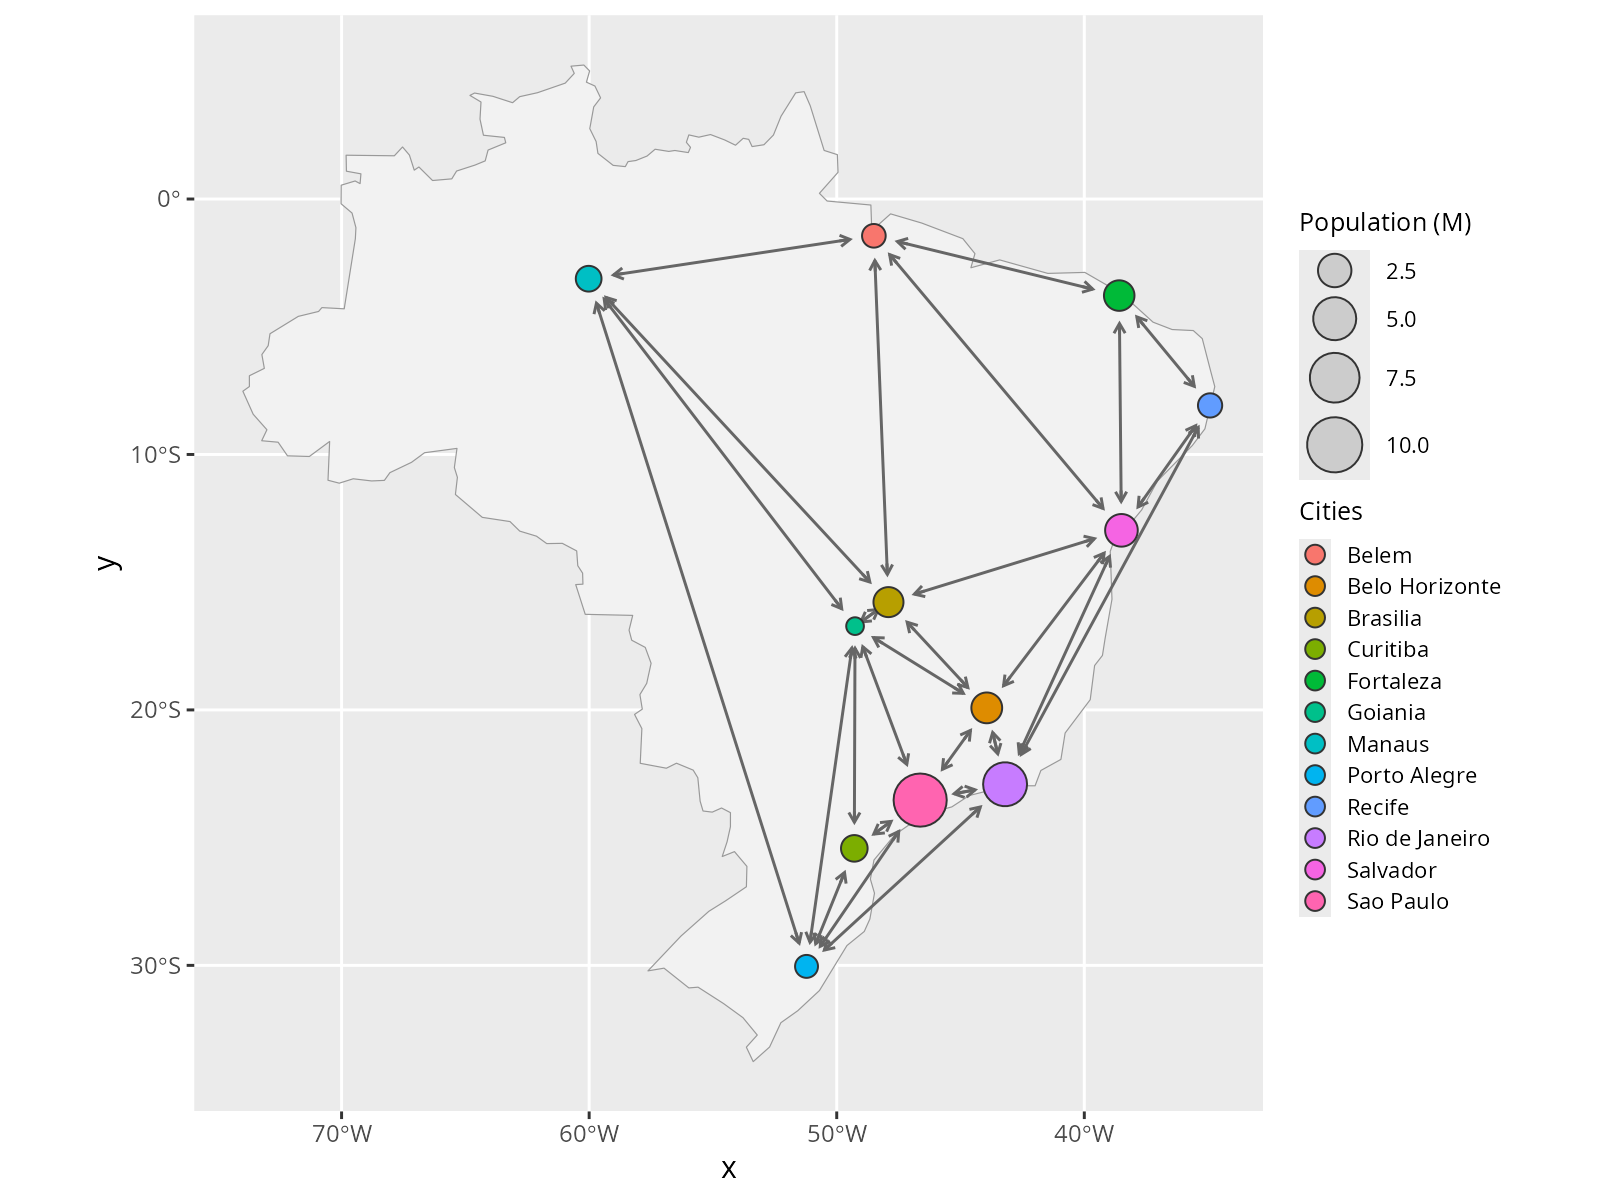
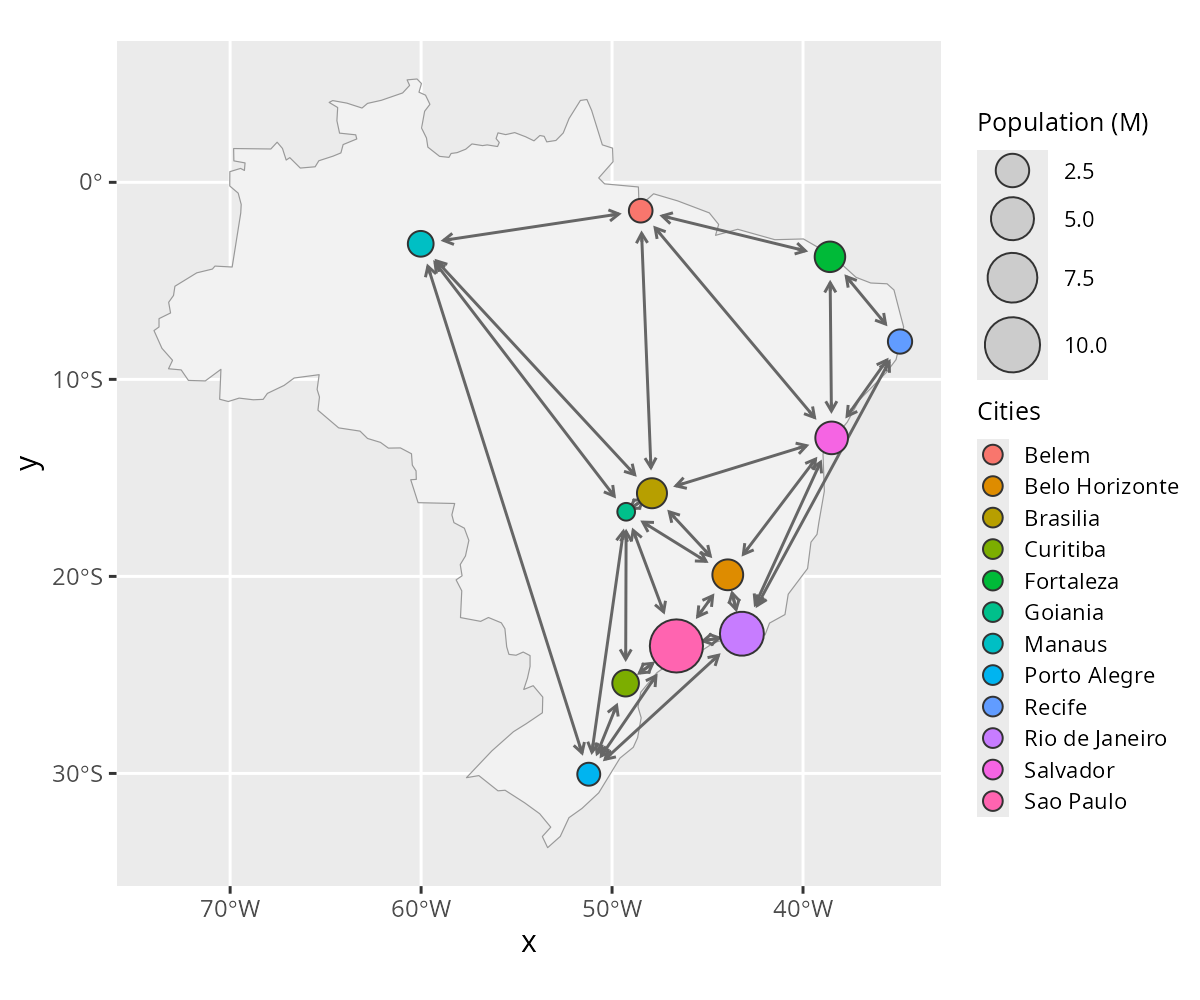
regular maintenance

diff --git a/README.md b/README.md
@@ -1,4 +1,4 @@
-### *RGraphSpace*: A lightweight interface between 'igraph' and 'ggplot2' graphics
+## *RGraphSpace*: A lightweight interface between 'igraph' and 'ggplot2' graphics
   <!-- badges: start -->
   [![](https://www.r-pkg.org/badges/version/RGraphSpace)](https://cran.r-project.org/package=RGraphSpace)
   [![](https://img.shields.io/badge/lifecycle-stable-brightgreen.svg)](https://lifecycle.r-lib.org/articles/stages.html#stable)